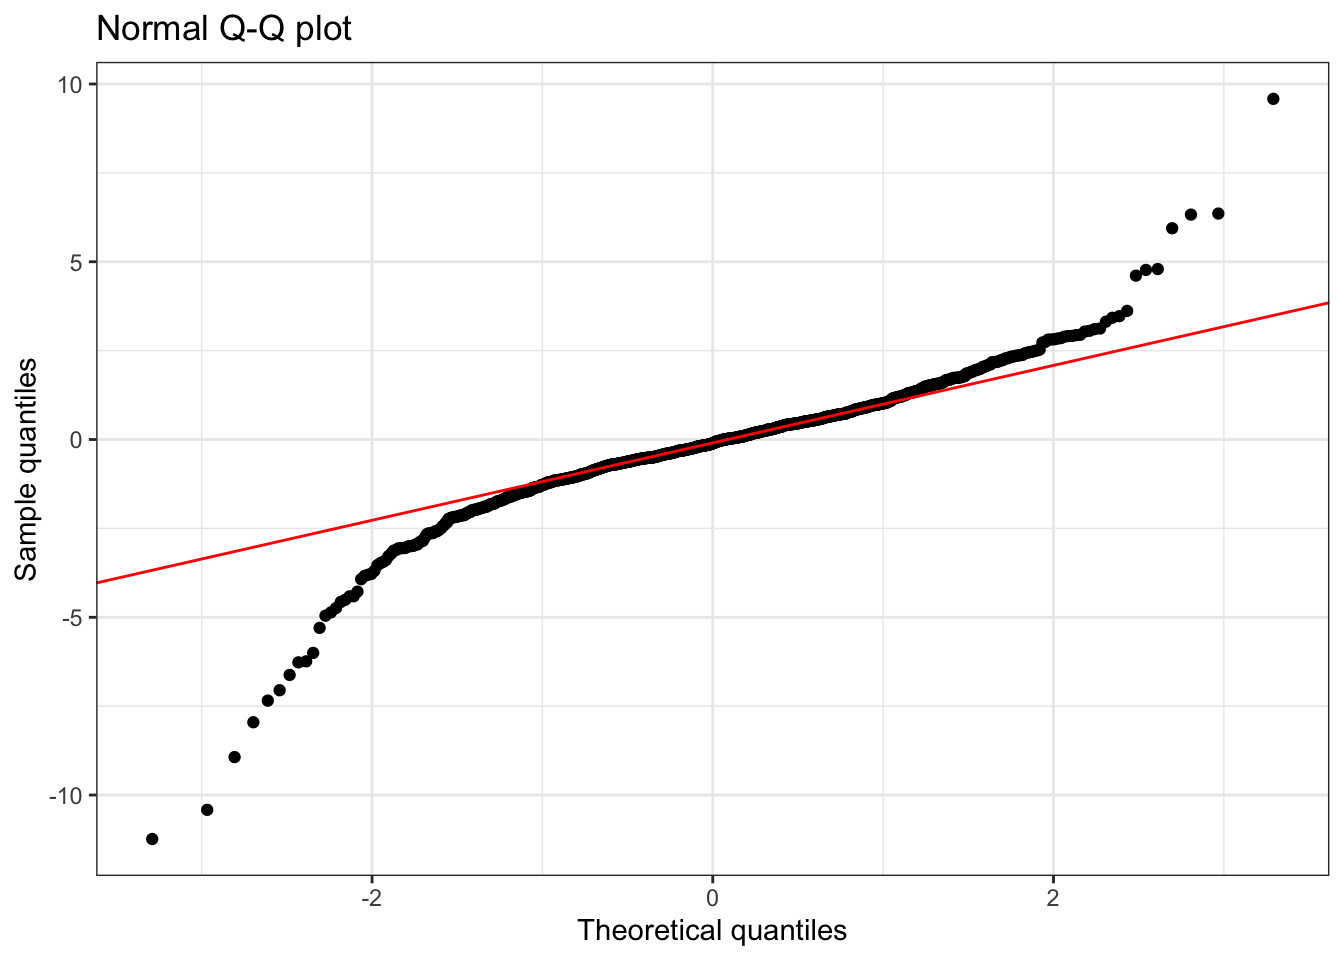
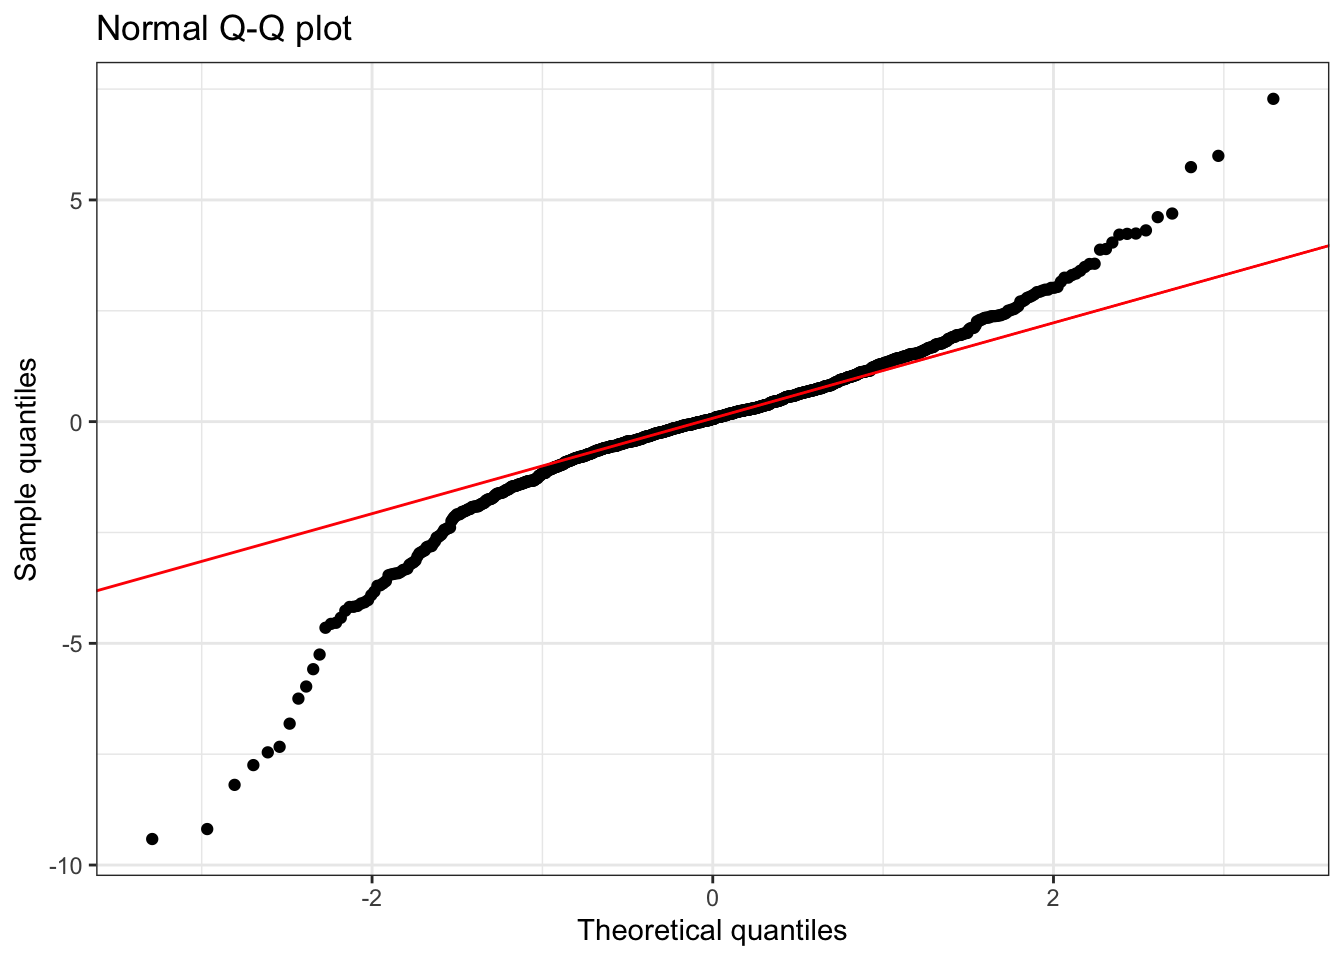
post update

diff --git a/docs/02_Data_Visualization.html b/docs/02_Data_Visualization.html
@@ -852,7 +852,7 @@ window.Quarto = {
 <ul>
 <li><strong>Continuous variables</strong> (students, teachers, expenditure, income, etc.) show their distribution through quartiles, mean, and range</li>
 <li><strong>Categorical variables</strong> (county, grades) show frequency counts</li>
-<li>Notice the <strong>range of expenditure</strong> per student: from around $3,900 to over $7,700 - this substantial variation will be a key focus of our analysis</li>
+<li>Notice the <strong>range of expenditure</strong> per student: from around \$3,900 to over \$7,700 - this substantial variation will be a key focus of our analysis</li>
 <li><strong>Test scores</strong> (reading and math) also show considerable variation, suggesting potential relationships with school resources</li>
 </ul>
 </section>
@@ -902,9 +902,9 @@ window.Quarto = {
 </div>
 <p><strong>Interpreting the Results:</strong></p>
 <ul>
-<li><strong>Range:</strong> Expenditure varies from about $3,926 to $7,712 per student - a difference of nearly $4,000</li>
-<li><strong>Central Tendency:</strong> The mean ($5,312) is slightly higher than the median ($5,196), <strong>suggesting a slight right skew</strong></li>
-<li><strong>Variability:</strong> Standard deviation of $633 indicates moderate spread around the mean</li>
+<li><strong>Range:</strong> Expenditure varies from about \$3,926 to \$7,712 per student - a difference of nearly \$4,000</li>
+<li><strong>Central Tendency:</strong> The mean (\$5,312) is slightly higher than the median (\$5,196), <strong>suggesting a slight right skew</strong></li>
+<li><strong>Variability:</strong> Standard deviation of \$633 indicates moderate spread around the mean</li>
 <li><strong>Skewness (1.07):</strong> Positive skewness confirms some districts spend considerably more than average</li>
 <li><strong>Kurtosis (4.88):</strong> Larger than 3 indicates a distribution with fat tails relative to the normal distribution.</li>
 </ul>
@@ -926,7 +926,7 @@ window.Quarto = {
 </div>
 <p><strong>What the Histogram Reveals:</strong></p>
 <ul>
-<li>Most districts cluster around the $5,000-$5,500 range</li>
+<li>Most districts cluster around the \$5,000-\$5,500 range</li>
 <li>Variability is moderate</li>
 <li>The distribution has a long right tail, indicating positive skewness. That suggests that expenditure per student is concentrated at lower values for most districts, while a smaller number of districts spend substantially more, pulling the mean above the median</li>
 <li>There are <strong>few extreme positive outliers</strong>, indicating some districts do spend significantly more than average</li>
@@ -959,9 +959,9 @@ window.Quarto = {
 </div>
 <p><strong>Key Findings:</strong></p>
 <ul>
-<li><strong>K–6 schools</strong> (61 districts): Mean expenditure of $5,577, slightly higher than K–8 schools</li>
-<li><strong>K–8 schools</strong> (359 districts): Mean expenditure of $5,267, with a larger sample size</li>
-<li>K–6 schools indicating higher variability, with a standard deviation of $662 compared to $618 for K-8 schools</li>
+<li><strong>K–6 schools</strong> (61 districts): Mean expenditure of \$5,577, slightly higher than K–8 schools</li>
+<li><strong>K–8 schools</strong> (359 districts): Mean expenditure of \$5,267, with a larger sample size</li>
+<li>K–6 schools indicating higher variability, with a standard deviation of \$662 compared to \$618 for K-8 schools</li>
 <li><strong>Skewness</strong> is positive for both groups, with K–8 schools showing slightly more skewness</li>
 <li>The difference suggests that <strong>smaller grade span districts may have slightly higher per-pupil spending</strong></li>
 </ul>
@@ -1190,8 +1190,8 @@ window.Quarto = {
 <p>Summary statistics:</p>
 <div class="cell">
 <div class="cell-output cell-output-stdout">
-<pre><code>      n min mean median  max sd skewness kurtosis
-1 10000  -2    0  -0.18 6.14  1     0.93     3.79</code></pre>
+<pre><code>      n   min mean median max   sd skewness kurtosis
+1 10000 -1.88    0  -0.19 5.1 1.01     0.89     3.64</code></pre>
 </div>
 </div>
 <p>💡 Note that for a positive skewed distribution, <strong>the median is larger than the mean</strong> because the long right tail pulls the mean above the median.</p>
@@ -1229,7 +1229,7 @@ window.Quarto = {
 <div class="cell">
 <div class="cell-output cell-output-stdout">
 <pre><code>      n   min mean median  max   sd skewness kurtosis
-1 10000 -5.23 0.02    0.2 1.81 0.99     -0.9     3.71</code></pre>
+1 10000 -5.47 0.02   0.18 1.83 0.98    -0.88     3.67</code></pre>
 </div>
 </div>
 <p>💡 Note that for a negatively skewed distribution, <strong>the median is smaller than the mean</strong> because the long left tail pulls the mean above the median.</p>
@@ -1270,8 +1270,8 @@ window.Quarto = {
 <p>Summary statistics:</p>
 <div class="cell">
 <div class="cell-output cell-output-stdout">
-<pre><code>     n    min  mean median  max   sd skewness kurtosis
-1 1000 -11.24 -0.16   -0.1 9.58 1.61    -0.92     11.1</code></pre>
+<pre><code>     n   min mean median  max   sd skewness kurtosis
+1 1000 -9.41    0   0.06 7.28 1.62    -0.94     8.24</code></pre>
 </div>
 </div>
 <p><strong>Understanding Fat Tails (High Kurtosis):</strong></p>
@@ -1313,7 +1313,7 @@ window.Quarto = {
 <div class="cell">
 <div class="cell-output cell-output-stdout">
 <pre><code>     n   min  mean median  max   sd skewness kurtosis
-1 1000 -1.15 -0.01  -0.02 1.25 0.58     0.03     1.88</code></pre>
+1 1000 -1.15 -0.01  -0.03 1.21 0.59     0.03     1.87</code></pre>
 </div>
 </div>
 <p><strong>Understanding Thin Tails (Low Kurtosis):</strong></p>
